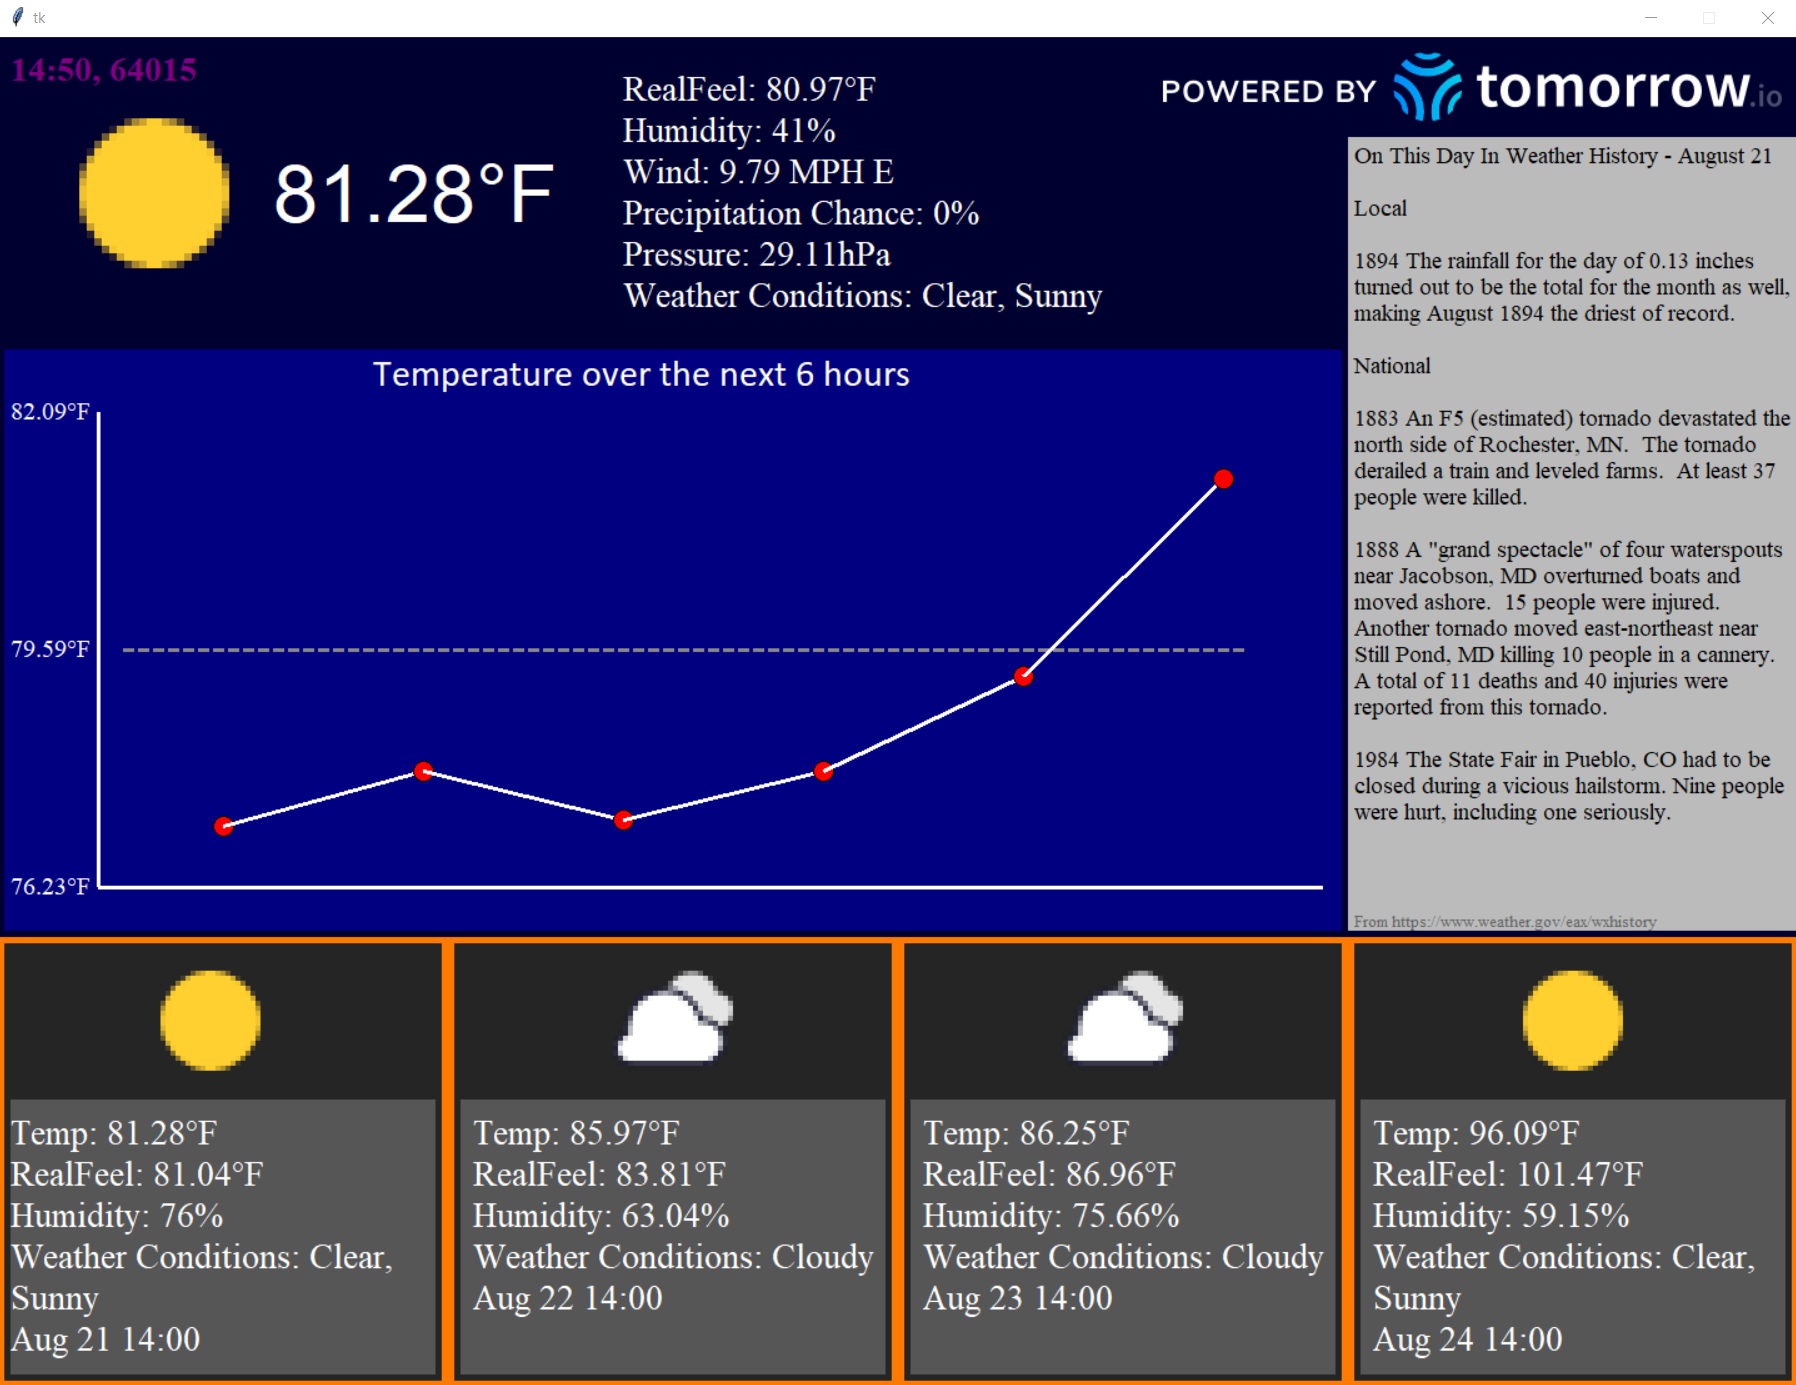
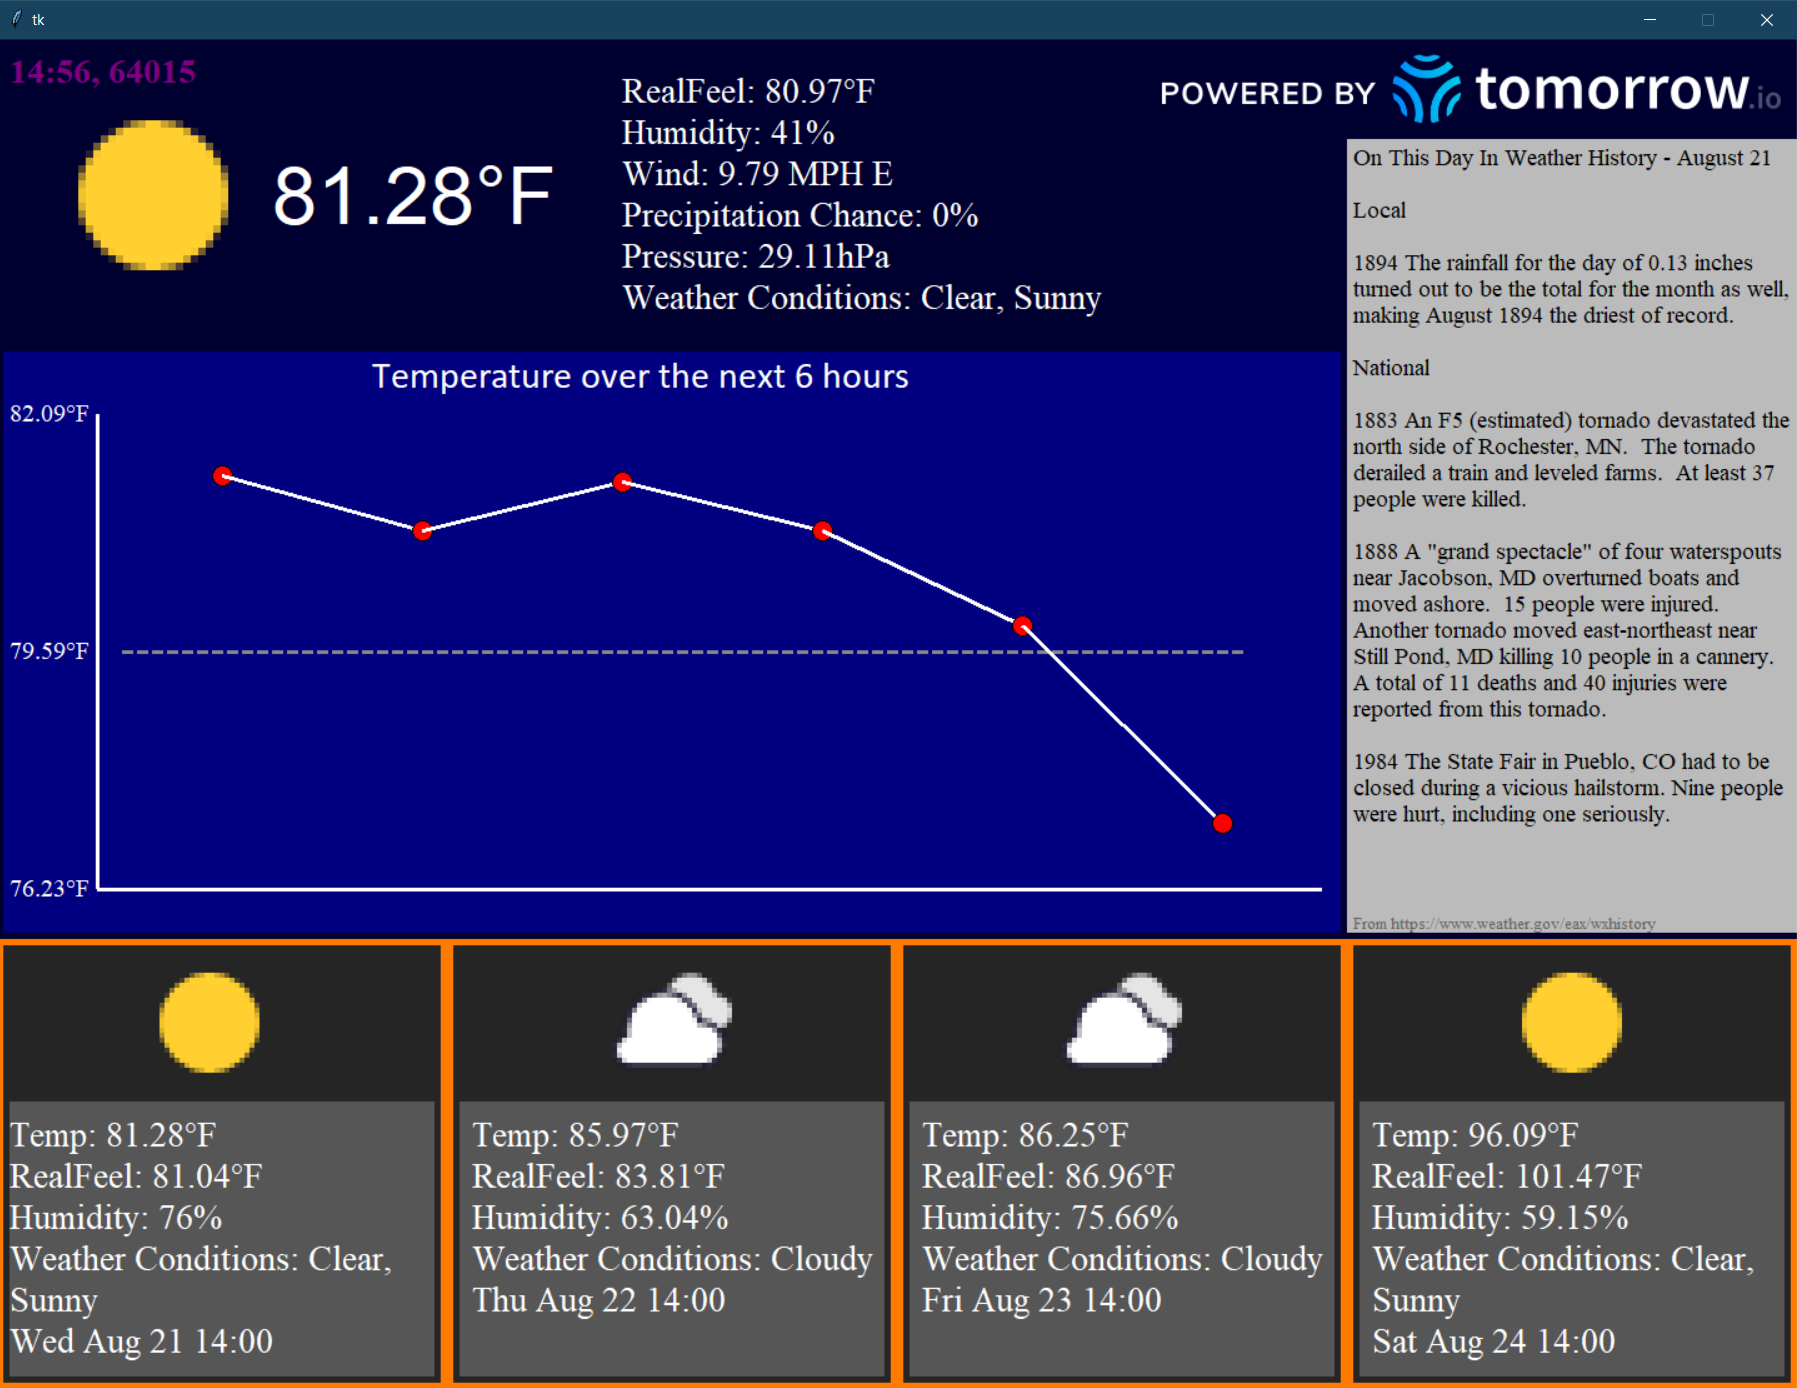
Changed design

diff --git a/gui.py b/gui.py
@@ -136,7 +136,7 @@ def show_days(canvas, Temp1, Temp2, Temp3, Temp4, RF1, RF2, RF3, RF4, Humid1, Hu
         "\nRealFeel: " + RF1 + "°F" +
         "\nHumidity: " + Humid1 + "%" +
         "\nWeather Conditions: " + str(Code1) + "\n" +
-        time.strftime("%b %d %H:%M"),
+        time.strftime("%a %b %d %H:%M"),
         fill="#FFFFFF",
         font=("Times", 28 * -1),
         width=340
@@ -151,7 +151,7 @@ def show_days(canvas, Temp1, Temp2, Temp3, Temp4, RF1, RF2, RF3, RF4, Humid1, Hu
         "\nRealFeel: " + RF2 + "°F" +
         "\nHumidity: " + Humid2 + "%" +
         "\nWeather Conditions: " + str(Code2) + "\n" +
-        time2.strftime("%b %d %H:%M"),
+        time2.strftime("%a %b %d %H:%M"),
         fill="#FFFFFF",
         font=("Times", 28 * -1),
         width=340
@@ -166,7 +166,7 @@ def show_days(canvas, Temp1, Temp2, Temp3, Temp4, RF1, RF2, RF3, RF4, Humid1, Hu
         "\nRealFeel: " + RF3 + "°F" +
         "\nHumidity: " + Humid3 + "%" +
         "\nWeather Conditions: " + str(Code3) + "\n" +
-        time3.strftime("%b %d %H:%M"),
+        time3.strftime("%a %b %d %H:%M"),
         fill="#FFFFFF",
         font=("Times", 28 * -1),
         width=340
@@ -181,7 +181,7 @@ def show_days(canvas, Temp1, Temp2, Temp3, Temp4, RF1, RF2, RF3, RF4, Humid1, Hu
         "\nRealFeel: " + RF4 + "°F" +
         "\nHumidity: " + Humid4 + "%" +
         "\nWeather Conditions: " + str(Code4) + "\n" +
-        time4.strftime("%b %d %H:%M"),
+        time4.strftime("%a %b %d %H:%M"),
         fill="#FFFFFF",
         font=("Times", 28 * -1),
         width=340
@@ -244,9 +244,9 @@ def show_hourly(canvas, points):
         x1, y1 = 10*i, points[i-1]
         x2, y2 = 10*i+10, points[i]
         x1_scaled = (x1 * x_scale) + x_offset 
-        y1_scaled = ((y1 * y_scale) % 380) + 300
+        y1_scaled = 680 - ((y1 * y_scale) % 380) 
         x2_scaled = (x2 * x_scale) + x_offset 
-        y2_scaled = ((y2 * y_scale) % 380) + 300
+        y2_scaled = 680 - ((y2 * y_scale) % 380) 
         print("y1: " + str(y1) + " " + str(y1_scaled) + " y2: " + str(y2) + " " + str(y2_scaled))
         canvas.create_oval(x1_scaled - 8, y1_scaled - 8, x1_scaled + 8, y1_scaled + 8, fill="Red")
         #Break so line stops at the last point

diff --git a/README.md b/README.md
@@ -11,4 +11,4 @@ There will be a container at the bottom of the screen that displays the forecast
 On the right side of the screen will reside a container for historical facts about the weather on the current day. For example, May 20 could have notes about the Moore, Oklahoma tornado from 2013. There could be highest/lowest temperatures on record for the day or any other historical data. This is a blank canvas for information that can be determined later. This data comes from https://www.weather.gov/eax/wxhistory
 
 # Example from zip code 64015
-![image](https://github.com/user-attachments/assets/d22ab67b-d839-4fce-ab6f-5d0eecebe952)
+![alt text](image-1.png)
